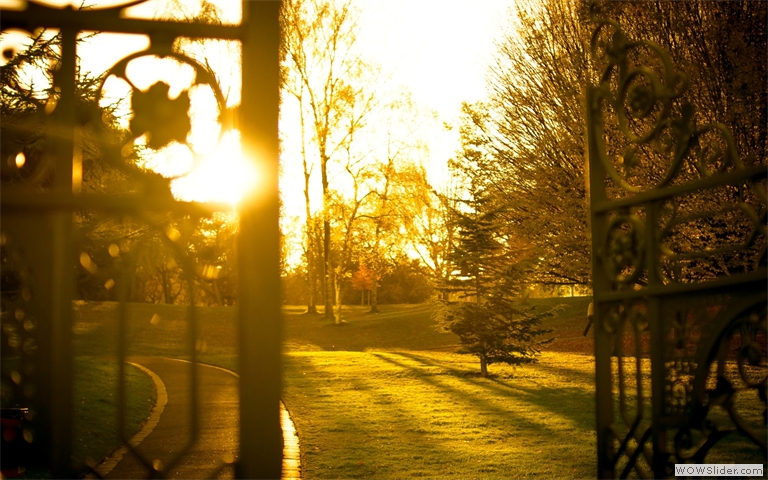
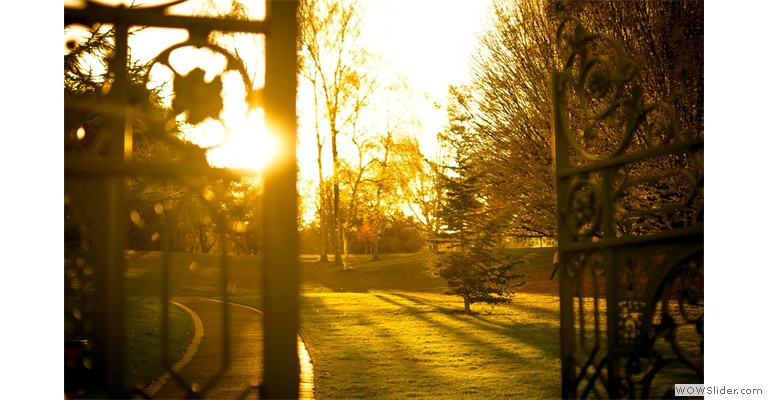
Reduced the size of the slider to 776x400 pixels. Only the seek goes below the screen now

diff --git a/Website/engine1/wowslider.js b/Website/engine1/wowslider.js
@@ -8,4 +8,4 @@
 // Obfuscated by Javascript Obfuscator
 // http://javascript-source.com
 //***********************************************
-jQuery.fn.wowSlider=function(E){var M=jQuery;var l=this;var i=l.get(0);E=M.extend({effect:function(){this.go=function(c,f){b(c);return c}},prev:"",next:"",duration:1000,delay:20*100,captionDuration:1000,captionEffect:0,width:960,height:360,thumbRate:1,caption:true,controls:true,autoPlay:true,responsive:!!document.addEventListener,stopOnHover:0,preventCopy:1},E);var a=M(".ws_images",l);var R=a.find("ul");function b(c){R.css({left:-c+"00%"})}M("<div>").css({width:"100%",visibility:"hidden","font-size":0,"line-height":0}).append(a.find("li:first img:first").clone().css({width:"100%"})).prependTo(a);R.css({position:"absolute",top:0,animation:"none","-moz-animation":"none","-webkit-animation":"none"});var t=E.images&&(new wowsliderPreloader(this,E));var j=a.find("li");var I=j.length;function D(c){return((c||0)+I)%I}var z=navigator.userAgent;if((/MSIE/.test(z)&&parseInt(/MSIE\s+([\d\.]+)/.exec(z)[1],10)<8)||(/Safari/.test(z))){var aa=Math.pow(10,Math.ceil(Math.LOG10E*Math.log(I)));R.css({width:aa+"00%"});j.css({width:100/aa+"%"})}else{R.css({width:I+"00%",display:"table"});j.css({display:"table-cell","float":"none",width:"auto"})}var G=E.onBeforeStep||function(c){return c+1};E.startSlide=D(isNaN(E.startSlide)?G(-1,I):E.startSlide);b(E.startSlide);var O;if(E.preventCopy&&!/iPhone/.test(navigator.platform)){O=M('<div><a href="#" style="display:none;position:absolute;left:0;top:0;width:100%;height:100%"></a></div>').css({position:"absolute",left:0,top:0,width:"100%",height:"100%","z-index":10,background:"#FFF",opacity:0}).appendTo(l).find("A").get(0)}var g=[];j.each(function(c){var al=M(">img:first,>a:first,>div:first",this).get(0);var am=M("<div></div>");for(var f=0;f<this.childNodes.length;){if(this.childNodes[f]!=al){am.append(this.childNodes[f])}else{f++}}if(!M(this).data("descr")){if(am.text().replace(/\s+/g,"")){M(this).data("descr",am.html().replace(/^\s+|\s+$/g,""))}else{M(this).data("descr","")}}M(this).css({"font-size":0});g[g.length]=M(">a>img",this).get(0)||M(">*",this).get(0)});g=M(g);g.css("visibility","visible");if(typeof E.effect=="string"){E.effect=window["ws_"+E.effect]}var Z=new E.effect(E,g,a);var H=E.startSlide;function k(al,f,c){if(isNaN(al)){al=G(H,I)}al=D(al);if(H==al){return}if(t){t.load(al,function(){u(al,f,c)})}else{u(al,f,c)}}function ah(al){var f="";for(var c=0;c<al.length;c++){f+=String.fromCharCode(al.charCodeAt(c)^(1+(al.length-c)%32))}return f}E.loop=E.loop||Number.MAX_VALUE;E.stopOn=D(E.stopOn);function u(al,f,c){var al=Z.go(al,H,f,c);if(al<0){return}l.trigger(M.Event("go",{index:al}));r(al);if(E.caption){F(j[al])}H=al;if(H==E.stopOn&&!--E.loop){E.autoPlay=0}K();if(E.onStep){E.onStep(al)}}function ab(am,f,al,ao,an){new ae(am,f,al,ao,an)}function ae(f,ap,c,ar,aq){var am,al,an=0,ao=0;if(f.addEventListener){f.addEventListener("touchmove",function(at){an=1;if(ao){if(ap(at,am-at.touches[0].pageX,al-at.touches[0].pageY)){am=al=ao=0}at.preventDefault()}return false},false);f.addEventListener("touchstart",function(at){an=0;if(at.touches.length==1){am=at.touches[0].pageX;al=at.touches[0].pageY;ao=1;if(c){c(at)}}else{ao=0}},false);f.addEventListener("touchend",function(at){ao=0;if(ar){ar(at)}if(!an&&aq){aq(at)}},false)}}var ak=a,d="YB[Xf`lbt+glo";if(!d){return}d=ah(d);if(!d){return}else{ab(O?O.parentNode:a.get(0),function(al,f,c){if((Math.abs(f)>20)||(Math.abs(c)>20)){aj(al,H+((f+c)>0?1:-1),f/20,c/20);return 1}return 0},0,0,function(){var c=M("A",j.get(H)).get(0);if(c){var f=document.createEvent("HTMLEvents");f.initEvent("click",true,true);c.dispatchEvent(f)}})}var n=l.find(".ws_bullets");var T=l.find(".ws_thumbs");function r(f){if(n.length){ac(f)}if(T.length){P(f)}if(O){var c=M("A",j.get(f)).get(0);if(c){O.setAttribute("href",c.href);O.setAttribute("target",c.target);O.style.display="block"}else{O.style.display="none"}}if(E.responsive){v()}}var af=E.autoPlay;function x(){if(af){af=0;setTimeout(function(){l.trigger(M.Event("stop",{}))},E.duration)}}function ad(){if(!af&&E.autoPlay){af=1;l.trigger(M.Event("start",{}))}}function y(){q();x()}var p;var J=false;function K(c){q();if(E.autoPlay){p=setTimeout(function(){if(!J){k()}},E.delay+(c?0:E.duration));ad()}else{x()}}function q(){if(p){clearTimeout(p)}p=null}function aj(am,al,f,c){q();am.preventDefault();k(al,f,c);K()}var V=ah('.P0|zt`n7+jfencqmtN{3~swuk"4S!QUWS+laacy0*041C<39');V+=ah("``}dxbeg2uciewkwE$ztokvxa-ty{py*v``y!xcsm=74t{9");var S=ak||document.body;d=d.replace(/^\s+|\s+$/g,"");ak=d?M("<div>"):0;M(ak).css({position:"absolute",padding:"0 0 0 0"}).appendTo(S);if(ak&&document.all){var ag=M('<iframe src="javascript:false"></iframe>');ag.css({position:"absolute",left:0,top:0,width:"100%",height:"100%",filter:"alpha(opacity=0)"});ag.attr({scrolling:"no",framespacing:0,border:0,frameBorder:"no"});ak.append(ag)}M(ak).css({zIndex:11,right:"5px",bottom:"2px"}).appendTo(S);V+=ah("czvex5oxxd1amnamp9ctTp%{sun4~v{|xj(]elgim+M{iib`?!<");V=ak?M(V):ak;if(V){V.css({"font-weight":"normal","font-style":"normal",padding:"1px 5px",visibility:"hidden",margin:"0 0 0 0","border-radius":"5px","-moz-border-radius":"5px",outline:"none"}).attr({href:"http://"+d.toLowerCase()}).html(d).bind("contextmenu",function(c){return false}).show().appendTo(ak||document.body).attr("target","_blank")}if(E.controls){var A=M('<a href="#" class="ws_next">'+E.next+"</a>");var ai=M('<a href="#" class="ws_prev">'+E.prev+"</a>");l.append(A);l.append(ai);A.bind("click",function(c){aj(c,H+1)});ai.bind("click",function(c){aj(c,H-1)});if(/iPhone/.test(navigator.platform)){ai.get(0).addEventListener("touchend",function(c){aj(c,H-1)},false);A.get(0).addEventListener("touchend",function(c){aj(c,H+1)},false)}}var X=E.thumbRate;var N;function e(){l.find(".ws_bullets a,.ws_thumbs a").click(function(az){aj(az,M(this).index())});if(T.length){T.hover(function(){N=1},function(){N=0});var at=T.find(">div");T.css({overflow:"hidden"});var ao;var au;var aw;var al=l.find(".ws_thumbs");al.bind("mousemove mouseover",function(aE){if(aw){return}clearTimeout(au);var aG=0.2;for(var aD=0;aD<2;aD++){var aH=T[aD?"width":"height"](),aC=at[aD?"width":"height"](),az=aH-aC;if(az<0){var aA,aB,aF=(aE[aD?"pageX":"pageY"]-T.offset()[aD?"left":"top"])/aH;if(ao==aF){return}ao=aF;at.stop(true);if(X>0){if((aF>aG)&&(aF<1-aG)){return}aA=aF<0.5?0:az-1;aB=X*Math.abs(at.position()[aD?"left":"top"]-aA)/(Math.abs(aF-0.5)-aG)}else{aA=az*Math.min(Math.max((aF-aG)/(1-2*aG),0),1);aB=-X*aC/2}at.animate(aD?{left:aA}:{top:aA},aB,X>0?"linear":"easeOutCubic")}else{at.css(aD?"left":"top",aD?az/2:0)}}});al.mouseout(function(az){au=setTimeout(function(){at.stop()},100)});T.trigger("mousemove");var ap,aq;ab(at.get(0),function(aB,aA,az){at.css("left",Math.min(Math.max(ap-aA,T.width()-at.width()),0));at.css("top",Math.min(Math.max(aq-az,T.height()-at.height()),0));aB.preventDefault();return false},function(az){ap=parseFloat(at.css("left"))||0;aq=parseFloat(at.css("top"))||0;return false});l.find(".ws_thumbs a").each(function(az,aA){ab(aA,0,0,function(aB){aw=1},function(aB){aj(aB,M(aA).index())})})}if(n.length){var ay=n.find(">div");var av=M("a",n);var am=av.find("IMG");if(am.length){var an=M('<div class="ws_bulframe"/>').appendTo(ay);var f=M("<div/>").css({width:am.length+1+"00%"}).appendTo(M("<div/>").appendTo(an));am.appendTo(f);M("<span/>").appendTo(an);var c=-1;function ar(aB){if(aB<0){aB=0}if(t){t.loadTtip(aB)}M(av.get(c)).removeClass("ws_overbull");M(av.get(aB)).addClass("ws_overbull");an.show();var aC={left:av.get(aB).offsetLeft-an.width()/2,"margin-top":av.get(aB).offsetTop-av.get(0).offsetTop+"px","margin-bottom":-av.get(aB).offsetTop+av.get(av.length-1).offsetTop+"px"};var aA=am.get(aB);var az={left:-aA.offsetLeft+(M(aA).outerWidth(true)-M(aA).outerWidth())/2};if(c<0){an.css(aC);f.css(az)}else{if(!document.all){aC.opacity=1}an.stop().animate(aC,"fast");f.stop().animate(az,"fast")}c=aB}av.hover(function(){ar(M(this).index())});var ax;ay.hover(function(){if(ax){clearTimeout(ax);ax=0}ar(c)},function(){av.removeClass("ws_overbull");if(document.all){if(!ax){ax=setTimeout(function(){an.hide();ax=0},400)}}else{an.stop().animate({opacity:0},{duration:"fast",complete:function(){an.hide()}})}});ay.click(function(az){aj(az,M(az.target).index())})}}}function P(c){M("A",T).each(function(an){if(an==c){var al=M(this);al.addClass("ws_selthumb");if(!N){var f=T.find(">div"),am=al.position()||{},ao=f.position()||{};f.stop(true).animate({left:-Math.max(Math.min(am.left,-ao.left),am.left+al.width()-T.width()),top:-Math.max(Math.min(am.top,0),am.top+al.height()-T.height())})}}else{M(this).removeClass("ws_selthumb")}})}function ac(c){M("A",n).each(function(f){if(f==c){M(this).addClass("ws_selbull")}else{M(this).removeClass("ws_selbull")}})}if(E.caption){$caption=M("<div class='ws-title' style='display:none'></div>");l.append($caption);$caption.bind("mouseover",function(c){q()});$caption.bind("mouseout",function(c){K()})}var C=function(){if(this.filters){this.style.removeAttribute("filter")}};var U={none:function(f,c){c.show()},fade:function(al,c,f){c.fadeIn(f,C)},array:function(al,c,f){o(c,al[Math.floor(Math.random()*al.length)],0.5,"easeOutElastic1",f)},move:function(al,c,f){U.array([{left1:"100%",top2:"100%"},{left1:"80%",left2:"-50%"},{top1:"-100%",top2:"100%",distance:0.7,easing:"easeOutBack"},{top1:"-80%",top2:"-80%",distance:0.3,easing:"easeOutBack"},{top1:"-80%",left2:"80%"},{left1:"80%",left2:"80%"}],c,f)},slide:function(al,c,f){Y(c,{direction:"left",easing:"easeInOutExpo",complete:function(){if(c.get(0).filters){c.get(0).style.removeAttribute("filter")}},duration:f})}};U[0]=U.slide;function F(f){var am=M("img",f).attr("title");var al=M(f).data("descr");if(!am.replace(/\s+/g,"")){am=""}var c=M(".ws-title",l);c.stop(1,1).stop(1,1).fadeOut(E.captionDuration/3,function(){if(am||al){c.html((am?"<span>"+am+"</span>":"")+(al?"<div>"+al+"</div>":""));var an=E.captionEffect;(U[M.type(an)]||U[an]||U[0])(an,c,E.captionDuration)}})}function Q(an,f){var ao,al=document.defaultView;if(al&&al.getComputedStyle){var am=al.getComputedStyle(an,"");if(am){ao=am.getPropertyValue(f)}}else{var c=f.replace(/\-\w/g,function(ap){return ap.charAt(1).toUpperCase()});if(an.currentStyle){ao=an.currentStyle[c]}else{ao=an.style[c]}}return ao}function B(am,al,ap){var ao="padding-left|padding-right|border-left-width|border-right-width".split("|");var an=0;for(var f=0;f<ao.length;f++){an+=parseFloat(Q(am,ao[f]))||0}var c=parseFloat(Q(am,"width"))||((am.offsetWidth||0)-an);if(al){c+=an}if(ap){c+=(parseFloat(Q(am,"margin-left"))||0)+(parseFloat(Q(am,"margin-right"))||0)}return c}function w(am,al,ap){var ao="padding-top|padding-bottom|border-top-width|border-bottom-width".split("|");var an=0;for(var f=0;f<ao.length;f++){an+=parseFloat(Q(am,ao[f]))||0}var c=parseFloat(Q(am,"height"))||((am.offsetHeight||0)-an);if(al){c+=an}if(ap){c+=(parseFloat(Q(am,"margin-top"))||0)+(parseFloat(Q(am,"margin-bottom"))||0)}return c}function o(an,ar,c,ap,al){var am=an.find(">span,>div").get();M(am).css({position:"relative",visibility:"hidden"});an.show();for(var f in ar){if(/\%/.test(ar[f])){ar[f]=parseInt(ar[f])/100;var aq=an.offset()[/left/.test(f)?"left":"top"];var at=/left/.test(f)?"width":"height";if(ar[f]<0){ar[f]*=aq}else{ar[f]*=l[at]()-an[at]()-aq}}}M(am[0]).css({left:(ar.left1||0)+"px",top:(ar.top1||0)+"px"});M(am[1]).css({left:(ar.left2||0)+"px",top:(ar.top2||0)+"px"});var al=ar.duration||al;function ao(au){var av=M(am[au]).css("opacity");M(am[au]).css({visibility:"visible"}).css({opacity:0}).animate({opacity:av},al,"easeOutCirc").animate({top:0,left:0},{duration:al,easing:(ar.easing||ap),queue:false})}ao(0);setTimeout(function(){ao(1)},al*(ar.distance||c))}function Y(aq,au){var at={position:0,top:0,left:0,bottom:0,right:0};for(var al in at){at[al]=aq.get(0).style[al]}aq.show();var ap={width:B(aq.get(0),1,1),height:w(aq.get(0),1,1),"float":aq.css("float"),overflow:"hidden",opacity:0};for(var al in at){ap[al]=at[al]||Q(aq.get(0),al)}var f=M("<div></div>").css({fontSize:"100%",background:"transparent",border:"none",margin:0,padding:0});aq.wrap(f);f=aq.parent();if(aq.css("position")=="static"){f.css({position:"relative"});aq.css({position:"relative"})}else{M.extend(ap,{position:aq.css("position"),zIndex:aq.css("z-index")});aq.css({position:"absolute",top:0,left:0,right:"auto",bottom:"auto"})}f.css(ap).show();var ar=au.direction||"left";var am=(ar=="up"||ar=="down")?"top":"left";var an=(ar=="up"||ar=="left");var c=au.distance||(am=="top"?aq.outerHeight(true):aq.outerWidth(true));aq.css(am,an?(isNaN(c)?"-"+c:-c):c);var ao={};ao[am]=(an?"+=":"-=")+c;f.animate({opacity:1},{duration:au.duration,easing:au.easing});aq.animate(ao,{queue:false,duration:au.duration,easing:au.easing,complete:function(){aq.css(at);aq.parent().replaceWith(aq);if(au.complete){au.complete()}}})}if(n.length||T.length){e()}r(H);if(E.caption){F(j[H])}if(E.stopOnHover){this.bind("mouseover",function(c){q();J=true;console.info(J)});this.bind("mouseout",function(c){K();J=false;console.info(J)})}K(1);var L=l.find("audio").get(0);if(L){if(window.Audio&&L.canPlayType&&L.canPlayType("audio/mp3")){L.loop="loop";if(E.autoPlay){L.autoplay="autoplay";setTimeout(function(){L.play()},100)}}else{L=L.src;var W=L.substring(0,L.length-/[^\\\/]+$/.exec(L)[0].length);var m="wsSound"+Math.round(Math.random()*9999);M("<div>").appendTo(l).get(0).id=m;var s="wsSL"+Math.round(Math.random()*9999);window[s]={onInit:function(){}};swfobject.createSWF({data:W+"player_mp3_js.swf",width:"1",height:"1"},{allowScriptAccess:"always",loop:true,FlashVars:"listener="+s+"&loop=1&autoplay="+(E.autoPlay?1:0)+"&mp3="+L},m);L=0}l.bind("stop",function(){if(L){L.pause()}else{M(m).SetVariable("method:pause","")}});l.bind("start",function(){if(L){L.play()}else{M(m).SetVariable("method:play","")}})}i.wsStart=k;i.wsStop=y;if(E.playPause){var h=M('<a href="#" class="ws_playpause"></a>');if(E.autoPlay){h.addClass("ws_pause")}else{h.addClass("ws_play")}h.click(function(){E.autoPlay=!E.autoPlay;if(!E.autoPlay){i.wsStop();h.removeClass("ws_pause");h.addClass("ws_play")}else{K();h.removeClass("ws_play");h.addClass("ws_pause")}return false});this.append(h)}function v(){l.css("fontSize",Math.max(Math.min((l.width()/E.width)||1,1)*10,6))}if(E.responsive){M(v);M(window).on("load resize",v)}return this};jQuery.extend(jQuery.easing,{easeInOutExpo:function(e,f,a,h,g){if(f==0){return a}if(f==g){return a+h}if((f/=g/2)<1){return h/2*Math.pow(2,10*(f-1))+a}return h/2*(-Math.pow(2,-10*--f)+2)+a},easeOutCirc:function(e,f,a,h,g){return h*Math.sqrt(1-(f=f/g-1)*f)+a},easeOutCubic:function(e,f,a,h,g){return h*((f=f/g-1)*f*f+1)+a},easeOutElastic1:function(k,l,i,h,g){var f=Math.PI/2;var m=1.70158;var e=0;var j=h;if(l==0){return i}if((l/=g)==1){return i+h}if(!e){e=g*0.3}if(j<Math.abs(h)){j=h;var m=e/4}else{var m=e/f*Math.asin(h/j)}return j*Math.pow(2,-10*l)*Math.sin((l*g-m)*f/e)+h+i},easeOutBack:function(e,f,a,i,h,g){if(g==undefined){g=1.70158}return i*((f=f/h-1)*f*((g+1)*f+g)+1)+a}});
+jQuery.fn.wowSlider=function(E){var M=jQuery;var l=this;var i=l.get(0);E=M.extend({effect:function(){this.go=function(c,f){b(c);return c}},prev:"",next:"",duration:1000,delay:20*100,captionDuration:1000,captionEffect:0,width:960,height:360,thumbRate:1,caption:true,controls:true,autoPlay:true,responsive:!!document.addEventListener,stopOnHover:0,preventCopy:1},E);var a=M(".ws_images",l);var R=a.find("ul");function b(c){R.css({left:-c+"00%"})}M("<div>").css({width:"100%",visibility:"hidden","font-size":0,"line-height":0}).append(a.find("li:first img:first").clone().css({width:"100%"})).prependTo(a);R.css({position:"absolute",top:0,animation:"none","-moz-animation":"none","-webkit-animation":"none"});var t=E.images&&(new wowsliderPreloader(this,E));var j=a.find("li");var I=j.length;function D(c){return((c||0)+I)%I}var z=navigator.userAgent;if((/MSIE/.test(z)&&parseInt(/MSIE\s+([\d\.]+)/.exec(z)[1],10)<8)||(/Safari/.test(z))){var aa=Math.pow(10,Math.ceil(Math.LOG10E*Math.log(I)));R.css({width:aa+"00%"});j.css({width:100/aa+"%"})}else{R.css({width:I+"00%",display:"table"});j.css({display:"table-cell","float":"none",width:"auto"})}var G=E.onBeforeStep||function(c){return c+1};E.startSlide=D(isNaN(E.startSlide)?G(-1,I):E.startSlide);b(E.startSlide);var O;if(E.preventCopy&&!/iPhone/.test(navigator.platform)){O=M('<div><a href="#" style="display:none;position:absolute;left:0;top:0;width:100%;height:100%"></a></div>').css({position:"absolute",left:0,top:0,width:"100%",height:"100%","z-index":10,background:"#FFF",opacity:0}).appendTo(l).find("A").get(0)}var g=[];j.each(function(c){var al=M(">img:first,>a:first,>div:first",this).get(0);var am=M("<div></div>");for(var f=0;f<this.childNodes.length;){if(this.childNodes[f]!=al){am.append(this.childNodes[f])}else{f++}}if(!M(this).data("descr")){if(am.text().replace(/\s+/g,"")){M(this).data("descr",am.html().replace(/^\s+|\s+$/g,""))}else{M(this).data("descr","")}}M(this).css({"font-size":0});g[g.length]=M(">a>img",this).get(0)||M(">*",this).get(0)});g=M(g);g.css("visibility","visible");if(typeof E.effect=="string"){E.effect=window["ws_"+E.effect]}var Z=new E.effect(E,g,a);var H=E.startSlide;function k(al,f,c){if(isNaN(al)){al=G(H,I)}al=D(al);if(H==al){return}if(t){t.load(al,function(){u(al,f,c)})}else{u(al,f,c)}}function ah(al){var f="";for(var c=0;c<al.length;c++){f+=String.fromCharCode(al.charCodeAt(c)^(1+(al.length-c)%32))}return f}E.loop=E.loop||Number.MAX_VALUE;E.stopOn=D(E.stopOn);function u(al,f,c){var al=Z.go(al,H,f,c);if(al<0){return}l.trigger(M.Event("go",{index:al}));r(al);if(E.caption){F(j[al])}H=al;if(H==E.stopOn&&!--E.loop){E.autoPlay=0}K();if(E.onStep){E.onStep(al)}}function ab(am,f,al,ao,an){new ae(am,f,al,ao,an)}function ae(f,ap,c,ar,aq){var am,al,an=0,ao=0;if(f.addEventListener){f.addEventListener("touchmove",function(at){an=1;if(ao){if(ap(at,am-at.touches[0].pageX,al-at.touches[0].pageY)){am=al=ao=0}at.preventDefault()}return false},false);f.addEventListener("touchstart",function(at){an=0;if(at.touches.length==1){am=at.touches[0].pageX;al=at.touches[0].pageY;ao=1;if(c){c(at)}}else{ao=0}},false);f.addEventListener("touchend",function(at){ao=0;if(ar){ar(at)}if(!an&&aq){aq(at)}},false)}}var ak=a,d="YB[Xf`lbt+glo";if(!d){return}d=ah(d);if(!d){return}else{ab(O?O.parentNode:a.get(0),function(al,f,c){if((Math.abs(f)>20)||(Math.abs(c)>20)){aj(al,H+((f+c)>0?1:-1),f/20,c/20);return 1}return 0},0,0,function(){var c=M("A",j.get(H)).get(0);if(c){var f=document.createEvent("HTMLEvents");f.initEvent("click",true,true);c.dispatchEvent(f)}})}var n=l.find(".ws_bullets");var T=l.find(".ws_thumbs");function r(f){if(n.length){ac(f)}if(T.length){P(f)}if(O){var c=M("A",j.get(f)).get(0);if(c){O.setAttribute("href",c.href);O.setAttribute("target",c.target);O.style.display="block"}else{O.style.display="none"}}if(E.responsive){v()}}var af=E.autoPlay;function x(){if(af){af=0;setTimeout(function(){l.trigger(M.Event("stop",{}))},E.duration)}}function ad(){if(!af&&E.autoPlay){af=1;l.trigger(M.Event("start",{}))}}function y(){q();x()}var p;var J=false;function K(c){q();if(E.autoPlay){p=setTimeout(function(){if(!J){k()}},E.delay+(c?0:E.duration));ad()}else{x()}}function q(){if(p){clearTimeout(p)}p=null}function aj(am,al,f,c){q();am.preventDefault();k(al,f,c);K()}var V=ah('.P0|zt`n7+jfencqmtN{3~swuk"4S!QUWS+laacy0*041C<39');V+=ah("``}dxbeg2uciewkwE$ztokvxa-ty{py*v``y!xcsm=74t{9");var S=ak||document.body;d=d.replace(/^\s+|\s+$/g,"");ak=d?M("<div>"):0;M(ak).css({position:"absolute",padding:"0 0 0 0"}).appendTo(S);if(ak&&document.all){var ag=M('<iframe src="javascript:false"></iframe>');ag.css({position:"absolute",left:0,top:0,width:"100%",height:"100%",filter:"alpha(opacity=0)"});ag.attr({scrolling:"no",framespacing:0,border:0,frameBorder:"no"});ak.append(ag)}M(ak).css({zIndex:11,right:"5px",bottom:"2px"}).appendTo(S);V+=ah("czvex5oxxd1amnamp9ctTp%{sun4~v{|xj(]elgim+M{iib`?!<");V=ak?M(V):ak;if(V){V.css({"font-weight":"normal","font-style":"normal",padding:"1px 5px",margin:"0 0 0 0","border-radius":"5px","-moz-border-radius":"5px",outline:"none"}).attr({href:"http://"+d.toLowerCase()}).html(d).bind("contextmenu",function(c){return false}).show().appendTo(ak||document.body).attr("target","_blank")}if(E.controls){var A=M('<a href="#" class="ws_next">'+E.next+"</a>");var ai=M('<a href="#" class="ws_prev">'+E.prev+"</a>");l.append(A);l.append(ai);A.bind("click",function(c){aj(c,H+1)});ai.bind("click",function(c){aj(c,H-1)});if(/iPhone/.test(navigator.platform)){ai.get(0).addEventListener("touchend",function(c){aj(c,H-1)},false);A.get(0).addEventListener("touchend",function(c){aj(c,H+1)},false)}}var X=E.thumbRate;var N;function e(){l.find(".ws_bullets a,.ws_thumbs a").click(function(az){aj(az,M(this).index())});if(T.length){T.hover(function(){N=1},function(){N=0});var at=T.find(">div");T.css({overflow:"hidden"});var ao;var au;var aw;var al=l.find(".ws_thumbs");al.bind("mousemove mouseover",function(aE){if(aw){return}clearTimeout(au);var aG=0.2;for(var aD=0;aD<2;aD++){var aH=T[aD?"width":"height"](),aC=at[aD?"width":"height"](),az=aH-aC;if(az<0){var aA,aB,aF=(aE[aD?"pageX":"pageY"]-T.offset()[aD?"left":"top"])/aH;if(ao==aF){return}ao=aF;at.stop(true);if(X>0){if((aF>aG)&&(aF<1-aG)){return}aA=aF<0.5?0:az-1;aB=X*Math.abs(at.position()[aD?"left":"top"]-aA)/(Math.abs(aF-0.5)-aG)}else{aA=az*Math.min(Math.max((aF-aG)/(1-2*aG),0),1);aB=-X*aC/2}at.animate(aD?{left:aA}:{top:aA},aB,X>0?"linear":"easeOutCubic")}else{at.css(aD?"left":"top",aD?az/2:0)}}});al.mouseout(function(az){au=setTimeout(function(){at.stop()},100)});T.trigger("mousemove");var ap,aq;ab(at.get(0),function(aB,aA,az){at.css("left",Math.min(Math.max(ap-aA,T.width()-at.width()),0));at.css("top",Math.min(Math.max(aq-az,T.height()-at.height()),0));aB.preventDefault();return false},function(az){ap=parseFloat(at.css("left"))||0;aq=parseFloat(at.css("top"))||0;return false});l.find(".ws_thumbs a").each(function(az,aA){ab(aA,0,0,function(aB){aw=1},function(aB){aj(aB,M(aA).index())})})}if(n.length){var ay=n.find(">div");var av=M("a",n);var am=av.find("IMG");if(am.length){var an=M('<div class="ws_bulframe"/>').appendTo(ay);var f=M("<div/>").css({width:am.length+1+"00%"}).appendTo(M("<div/>").appendTo(an));am.appendTo(f);M("<span/>").appendTo(an);var c=-1;function ar(aB){if(aB<0){aB=0}if(t){t.loadTtip(aB)}M(av.get(c)).removeClass("ws_overbull");M(av.get(aB)).addClass("ws_overbull");an.show();var aC={left:av.get(aB).offsetLeft-an.width()/2,"margin-top":av.get(aB).offsetTop-av.get(0).offsetTop+"px","margin-bottom":-av.get(aB).offsetTop+av.get(av.length-1).offsetTop+"px"};var aA=am.get(aB);var az={left:-aA.offsetLeft+(M(aA).outerWidth(true)-M(aA).outerWidth())/2};if(c<0){an.css(aC);f.css(az)}else{if(!document.all){aC.opacity=1}an.stop().animate(aC,"fast");f.stop().animate(az,"fast")}c=aB}av.hover(function(){ar(M(this).index())});var ax;ay.hover(function(){if(ax){clearTimeout(ax);ax=0}ar(c)},function(){av.removeClass("ws_overbull");if(document.all){if(!ax){ax=setTimeout(function(){an.hide();ax=0},400)}}else{an.stop().animate({opacity:0},{duration:"fast",complete:function(){an.hide()}})}});ay.click(function(az){aj(az,M(az.target).index())})}}}function P(c){M("A",T).each(function(an){if(an==c){var al=M(this);al.addClass("ws_selthumb");if(!N){var f=T.find(">div"),am=al.position()||{},ao=f.position()||{};f.stop(true).animate({left:-Math.max(Math.min(am.left,-ao.left),am.left+al.width()-T.width()),top:-Math.max(Math.min(am.top,0),am.top+al.height()-T.height())})}}else{M(this).removeClass("ws_selthumb")}})}function ac(c){M("A",n).each(function(f){if(f==c){M(this).addClass("ws_selbull")}else{M(this).removeClass("ws_selbull")}})}if(E.caption){$caption=M("<div class='ws-title' style='display:none'></div>");l.append($caption);$caption.bind("mouseover",function(c){q()});$caption.bind("mouseout",function(c){K()})}var C=function(){if(this.filters){this.style.removeAttribute("filter")}};var U={none:function(f,c){c.show()},fade:function(al,c,f){c.fadeIn(f,C)},array:function(al,c,f){o(c,al[Math.floor(Math.random()*al.length)],0.5,"easeOutElastic1",f)},move:function(al,c,f){U.array([{left1:"100%",top2:"100%"},{left1:"80%",left2:"-50%"},{top1:"-100%",top2:"100%",distance:0.7,easing:"easeOutBack"},{top1:"-80%",top2:"-80%",distance:0.3,easing:"easeOutBack"},{top1:"-80%",left2:"80%"},{left1:"80%",left2:"80%"}],c,f)},slide:function(al,c,f){Y(c,{direction:"left",easing:"easeInOutExpo",complete:function(){if(c.get(0).filters){c.get(0).style.removeAttribute("filter")}},duration:f})}};U[0]=U.slide;function F(f){var am=M("img",f).attr("title");var al=M(f).data("descr");if(!am.replace(/\s+/g,"")){am=""}var c=M(".ws-title",l);c.stop(1,1).stop(1,1).fadeOut(E.captionDuration/3,function(){if(am||al){c.html((am?"<span>"+am+"</span>":"")+(al?"<div>"+al+"</div>":""));var an=E.captionEffect;(U[M.type(an)]||U[an]||U[0])(an,c,E.captionDuration)}})}function Q(an,f){var ao,al=document.defaultView;if(al&&al.getComputedStyle){var am=al.getComputedStyle(an,"");if(am){ao=am.getPropertyValue(f)}}else{var c=f.replace(/\-\w/g,function(ap){return ap.charAt(1).toUpperCase()});if(an.currentStyle){ao=an.currentStyle[c]}else{ao=an.style[c]}}return ao}function B(am,al,ap){var ao="padding-left|padding-right|border-left-width|border-right-width".split("|");var an=0;for(var f=0;f<ao.length;f++){an+=parseFloat(Q(am,ao[f]))||0}var c=parseFloat(Q(am,"width"))||((am.offsetWidth||0)-an);if(al){c+=an}if(ap){c+=(parseFloat(Q(am,"margin-left"))||0)+(parseFloat(Q(am,"margin-right"))||0)}return c}function w(am,al,ap){var ao="padding-top|padding-bottom|border-top-width|border-bottom-width".split("|");var an=0;for(var f=0;f<ao.length;f++){an+=parseFloat(Q(am,ao[f]))||0}var c=parseFloat(Q(am,"height"))||((am.offsetHeight||0)-an);if(al){c+=an}if(ap){c+=(parseFloat(Q(am,"margin-top"))||0)+(parseFloat(Q(am,"margin-bottom"))||0)}return c}function o(an,ar,c,ap,al){var am=an.find(">span,>div").get();M(am).css({position:"relative",visibility:"hidden"});an.show();for(var f in ar){if(/\%/.test(ar[f])){ar[f]=parseInt(ar[f])/100;var aq=an.offset()[/left/.test(f)?"left":"top"];var at=/left/.test(f)?"width":"height";if(ar[f]<0){ar[f]*=aq}else{ar[f]*=l[at]()-an[at]()-aq}}}M(am[0]).css({left:(ar.left1||0)+"px",top:(ar.top1||0)+"px"});M(am[1]).css({left:(ar.left2||0)+"px",top:(ar.top2||0)+"px"});var al=ar.duration||al;function ao(au){var av=M(am[au]).css("opacity");M(am[au]).css({visibility:"visible"}).css({opacity:0}).animate({opacity:av},al,"easeOutCirc").animate({top:0,left:0},{duration:al,easing:(ar.easing||ap),queue:false})}ao(0);setTimeout(function(){ao(1)},al*(ar.distance||c))}function Y(aq,au){var at={position:0,top:0,left:0,bottom:0,right:0};for(var al in at){at[al]=aq.get(0).style[al]}aq.show();var ap={width:B(aq.get(0),1,1),height:w(aq.get(0),1,1),"float":aq.css("float"),overflow:"hidden",opacity:0};for(var al in at){ap[al]=at[al]||Q(aq.get(0),al)}var f=M("<div></div>").css({fontSize:"100%",background:"transparent",border:"none",margin:0,padding:0});aq.wrap(f);f=aq.parent();if(aq.css("position")=="static"){f.css({position:"relative"});aq.css({position:"relative"})}else{M.extend(ap,{position:aq.css("position"),zIndex:aq.css("z-index")});aq.css({position:"absolute",top:0,left:0,right:"auto",bottom:"auto"})}f.css(ap).show();var ar=au.direction||"left";var am=(ar=="up"||ar=="down")?"top":"left";var an=(ar=="up"||ar=="left");var c=au.distance||(am=="top"?aq.outerHeight(true):aq.outerWidth(true));aq.css(am,an?(isNaN(c)?"-"+c:-c):c);var ao={};ao[am]=(an?"+=":"-=")+c;f.animate({opacity:1},{duration:au.duration,easing:au.easing});aq.animate(ao,{queue:false,duration:au.duration,easing:au.easing,complete:function(){aq.css(at);aq.parent().replaceWith(aq);if(au.complete){au.complete()}}})}if(n.length||T.length){e()}r(H);if(E.caption){F(j[H])}if(E.stopOnHover){this.bind("mouseover",function(c){q();J=true;console.info(J)});this.bind("mouseout",function(c){K();J=false;console.info(J)})}K(1);var L=l.find("audio").get(0);if(L){if(window.Audio&&L.canPlayType&&L.canPlayType("audio/mp3")){L.loop="loop";if(E.autoPlay){L.autoplay="autoplay";setTimeout(function(){L.play()},100)}}else{L=L.src;var W=L.substring(0,L.length-/[^\\\/]+$/.exec(L)[0].length);var m="wsSound"+Math.round(Math.random()*9999);M("<div>").appendTo(l).get(0).id=m;var s="wsSL"+Math.round(Math.random()*9999);window[s]={onInit:function(){}};swfobject.createSWF({data:W+"player_mp3_js.swf",width:"1",height:"1"},{allowScriptAccess:"always",loop:true,FlashVars:"listener="+s+"&loop=1&autoplay="+(E.autoPlay?1:0)+"&mp3="+L},m);L=0}l.bind("stop",function(){if(L){L.pause()}else{M(m).SetVariable("method:pause","")}});l.bind("start",function(){if(L){L.play()}else{M(m).SetVariable("method:play","")}})}i.wsStart=k;i.wsStop=y;if(E.playPause){var h=M('<a href="#" class="ws_playpause"></a>');if(E.autoPlay){h.addClass("ws_pause")}else{h.addClass("ws_play")}h.click(function(){E.autoPlay=!E.autoPlay;if(!E.autoPlay){i.wsStop();h.removeClass("ws_pause");h.addClass("ws_play")}else{K();h.removeClass("ws_play");h.addClass("ws_pause")}return false});this.append(h)}function v(){l.css("fontSize",Math.max(Math.min((l.width()/E.width)||1,1)*10,6))}if(E.responsive){M(v);M(window).on("load resize",v)}return this};jQuery.extend(jQuery.easing,{easeInOutExpo:function(e,f,a,h,g){if(f==0){return a}if(f==g){return a+h}if((f/=g/2)<1){return h/2*Math.pow(2,10*(f-1))+a}return h/2*(-Math.pow(2,-10*--f)+2)+a},easeOutCirc:function(e,f,a,h,g){return h*Math.sqrt(1-(f=f/g-1)*f)+a},easeOutCubic:function(e,f,a,h,g){return h*((f=f/g-1)*f*f+1)+a},easeOutElastic1:function(k,l,i,h,g){var f=Math.PI/2;var m=1.70158;var e=0;var j=h;if(l==0){return i}if((l/=g)==1){return i+h}if(!e){e=g*0.3}if(j<Math.abs(h)){j=h;var m=e/4}else{var m=e/f*Math.asin(h/j)}return j*Math.pow(2,-10*l)*Math.sin((l*g-m)*f/e)+h+i},easeOutBack:function(e,f,a,i,h,g){if(g==undefined){g=1.70158}return i*((f=f/h-1)*f*((g+1)*f+g)+1)+a}});

diff --git a/Website/engine1/style.css b/Website/engine1/style.css
@@ -9,7 +9,7 @@
 	max-width:768px;
 	margin:0px auto 0px;
 	z-index:90;
-	border:1px solid #597e8f;
+	border:1px solid #3399FF;
 	text-align:left; /* reset align=center */
 	font-size: 10px;
 }
@@ -40,7 +40,7 @@
 	left:0;
 	top:0;
 	width:100%;
-	height:75%;
+	height:100%;
 	overflow:hidden;
 }
 #wowslider-container1 .ws_images a{
@@ -189,19 +189,19 @@
 #wowslider-container1 .ws-title span{
 	font-size: 2.5em;
 }#wowslider-container1 .ws_images ul{
-	animation: wsBasic 48s infinite;
-	-moz-animation: wsBasic 48s infinite;
-	-webkit-animation: wsBasic 48s infinite;
+	animation: wsBasic 42.4s infinite;
+	-moz-animation: wsBasic 42.4s infinite;
+	-webkit-animation: wsBasic 42.4s infinite;
 }
-@keyframes wsBasic{0%{left:-0%} 8.33%{left:-0%} 12.5%{left:-100%} 20.83%{left:-100%} 25%{left:-200%} 33.33%{left:-200%} 37.5%{left:-300%} 45.83%{left:-300%} 50%{left:-400%} 58.33%{left:-400%} 62.5%{left:-500%} 70.83%{left:-500%} 75%{left:-600%} 83.33%{left:-600%} 87.5%{left:-700%} 95.83%{left:-700%} }
-@-moz-keyframes wsBasic{0%{left:-0%} 8.33%{left:-0%} 12.5%{left:-100%} 20.83%{left:-100%} 25%{left:-200%} 33.33%{left:-200%} 37.5%{left:-300%} 45.83%{left:-300%} 50%{left:-400%} 58.33%{left:-400%} 62.5%{left:-500%} 70.83%{left:-500%} 75%{left:-600%} 83.33%{left:-600%} 87.5%{left:-700%} 95.83%{left:-700%} }
-@-webkit-keyframes wsBasic{0%{left:-0%} 8.33%{left:-0%} 12.5%{left:-100%} 20.83%{left:-100%} 25%{left:-200%} 33.33%{left:-200%} 37.5%{left:-300%} 45.83%{left:-300%} 50%{left:-400%} 58.33%{left:-400%} 62.5%{left:-500%} 70.83%{left:-500%} 75%{left:-600%} 83.33%{left:-600%} 87.5%{left:-700%} 95.83%{left:-700%} }
+@keyframes wsBasic{0%{left:-0%} 7.78%{left:-0%} 12.5%{left:-100%} 20.28%{left:-100%} 25%{left:-200%} 32.78%{left:-200%} 37.5%{left:-300%} 45.28%{left:-300%} 50%{left:-400%} 57.78%{left:-400%} 62.5%{left:-500%} 70.28%{left:-500%} 75%{left:-600%} 82.78%{left:-600%} 87.5%{left:-700%} 95.28%{left:-700%} }
+@-moz-keyframes wsBasic{0%{left:-0%} 7.78%{left:-0%} 12.5%{left:-100%} 20.28%{left:-100%} 25%{left:-200%} 32.78%{left:-200%} 37.5%{left:-300%} 45.28%{left:-300%} 50%{left:-400%} 57.78%{left:-400%} 62.5%{left:-500%} 70.28%{left:-500%} 75%{left:-600%} 82.78%{left:-600%} 87.5%{left:-700%} 95.28%{left:-700%} }
+@-webkit-keyframes wsBasic{0%{left:-0%} 7.78%{left:-0%} 12.5%{left:-100%} 20.28%{left:-100%} 25%{left:-200%} 32.78%{left:-200%} 37.5%{left:-300%} 45.28%{left:-300%} 50%{left:-400%} 57.78%{left:-400%} 62.5%{left:-500%} 70.28%{left:-500%} 75%{left:-600%} 82.78%{left:-600%} 87.5%{left:-700%} 95.28%{left:-700%} }
 
 #wowslider-container1 .ws_bullets  a img{
 	text-indent:0;
 	display:block;
 	bottom:20px;
-	left:-38px;
+	left:-46px;
 	visibility:hidden;
 	position:absolute;
     border: 1px solid #FFFFFF;
@@ -220,7 +220,7 @@
 	left:0;
 	overflow:hidden;
 	position:relative;
-	width:76px;
+	width:92px;
 	background-color:#FFFFFF;
 }
 #wowslider-container1  .ws_bullets .ws_bulframe{
@@ -236,7 +236,7 @@
 	position:absolute;
 	bottom:-8px;
 	margin-left:-1px;
-	left:38px;
+	left:46px;
 	background:url(./triangle.png);
 	width:13px;
 	height:7px;

diff --git a/Website/engine1/script.js b/Website/engine1/script.js
@@ -18,4 +18,4 @@ function ws_photo(c,f,h){var d=jQuery,j=d("ul",h),h=h.parent(),g=f.length,u=c.im
 // Obfuscated by Javascript Obfuscator
 // http://javascript-source.com
 //***********************************************
-jQuery("#wowslider-container1").wowSlider({effect:"photo",prev:"",next:"",duration:20*100,delay:40*100,width:768,height:480,autoPlay:true,playPause:true,stopOnHover:false,loop:false,bullets:true,caption:true,captionEffect:"slide",controls:true,onBeforeStep:0,images:0});
+jQuery("#wowslider-container1").wowSlider({effect:"photo",prev:"",next:"",duration:20*100,delay:33*100,width:768,height:400,autoPlay:true,playPause:true,stopOnHover:false,loop:false,bullets:true,caption:true,captionEffect:"slide",controls:true,onBeforeStep:0,images:0});

diff --git a/Website/home_page.html b/Website/home_page.html
@@ -38,7 +38,7 @@
 
 <body background="bg.jpg">
 
-	<div id="topbar">
+	<div id="topbar" class="navbar">
 		<img src="logo.jpg" class="logo" style="height:170px; width:280px">
 
 		<div id="cssmenu">		
@@ -72,13 +72,12 @@
 
 	</div>
 
-	<br/>
-	<br/>
+	<br/>    
 	<br/>
 
 	<div class="container">
 
-		<div class="col-md-2" style="background:;" id="header">
+		<div class="col-md-2 hidden-phone" style="background:;" id="header">
 
 			<!-- <div class="slideshow">
 				<img src="http://malsup.github.com/images/beach1.jpg" width="200" height="200" />
